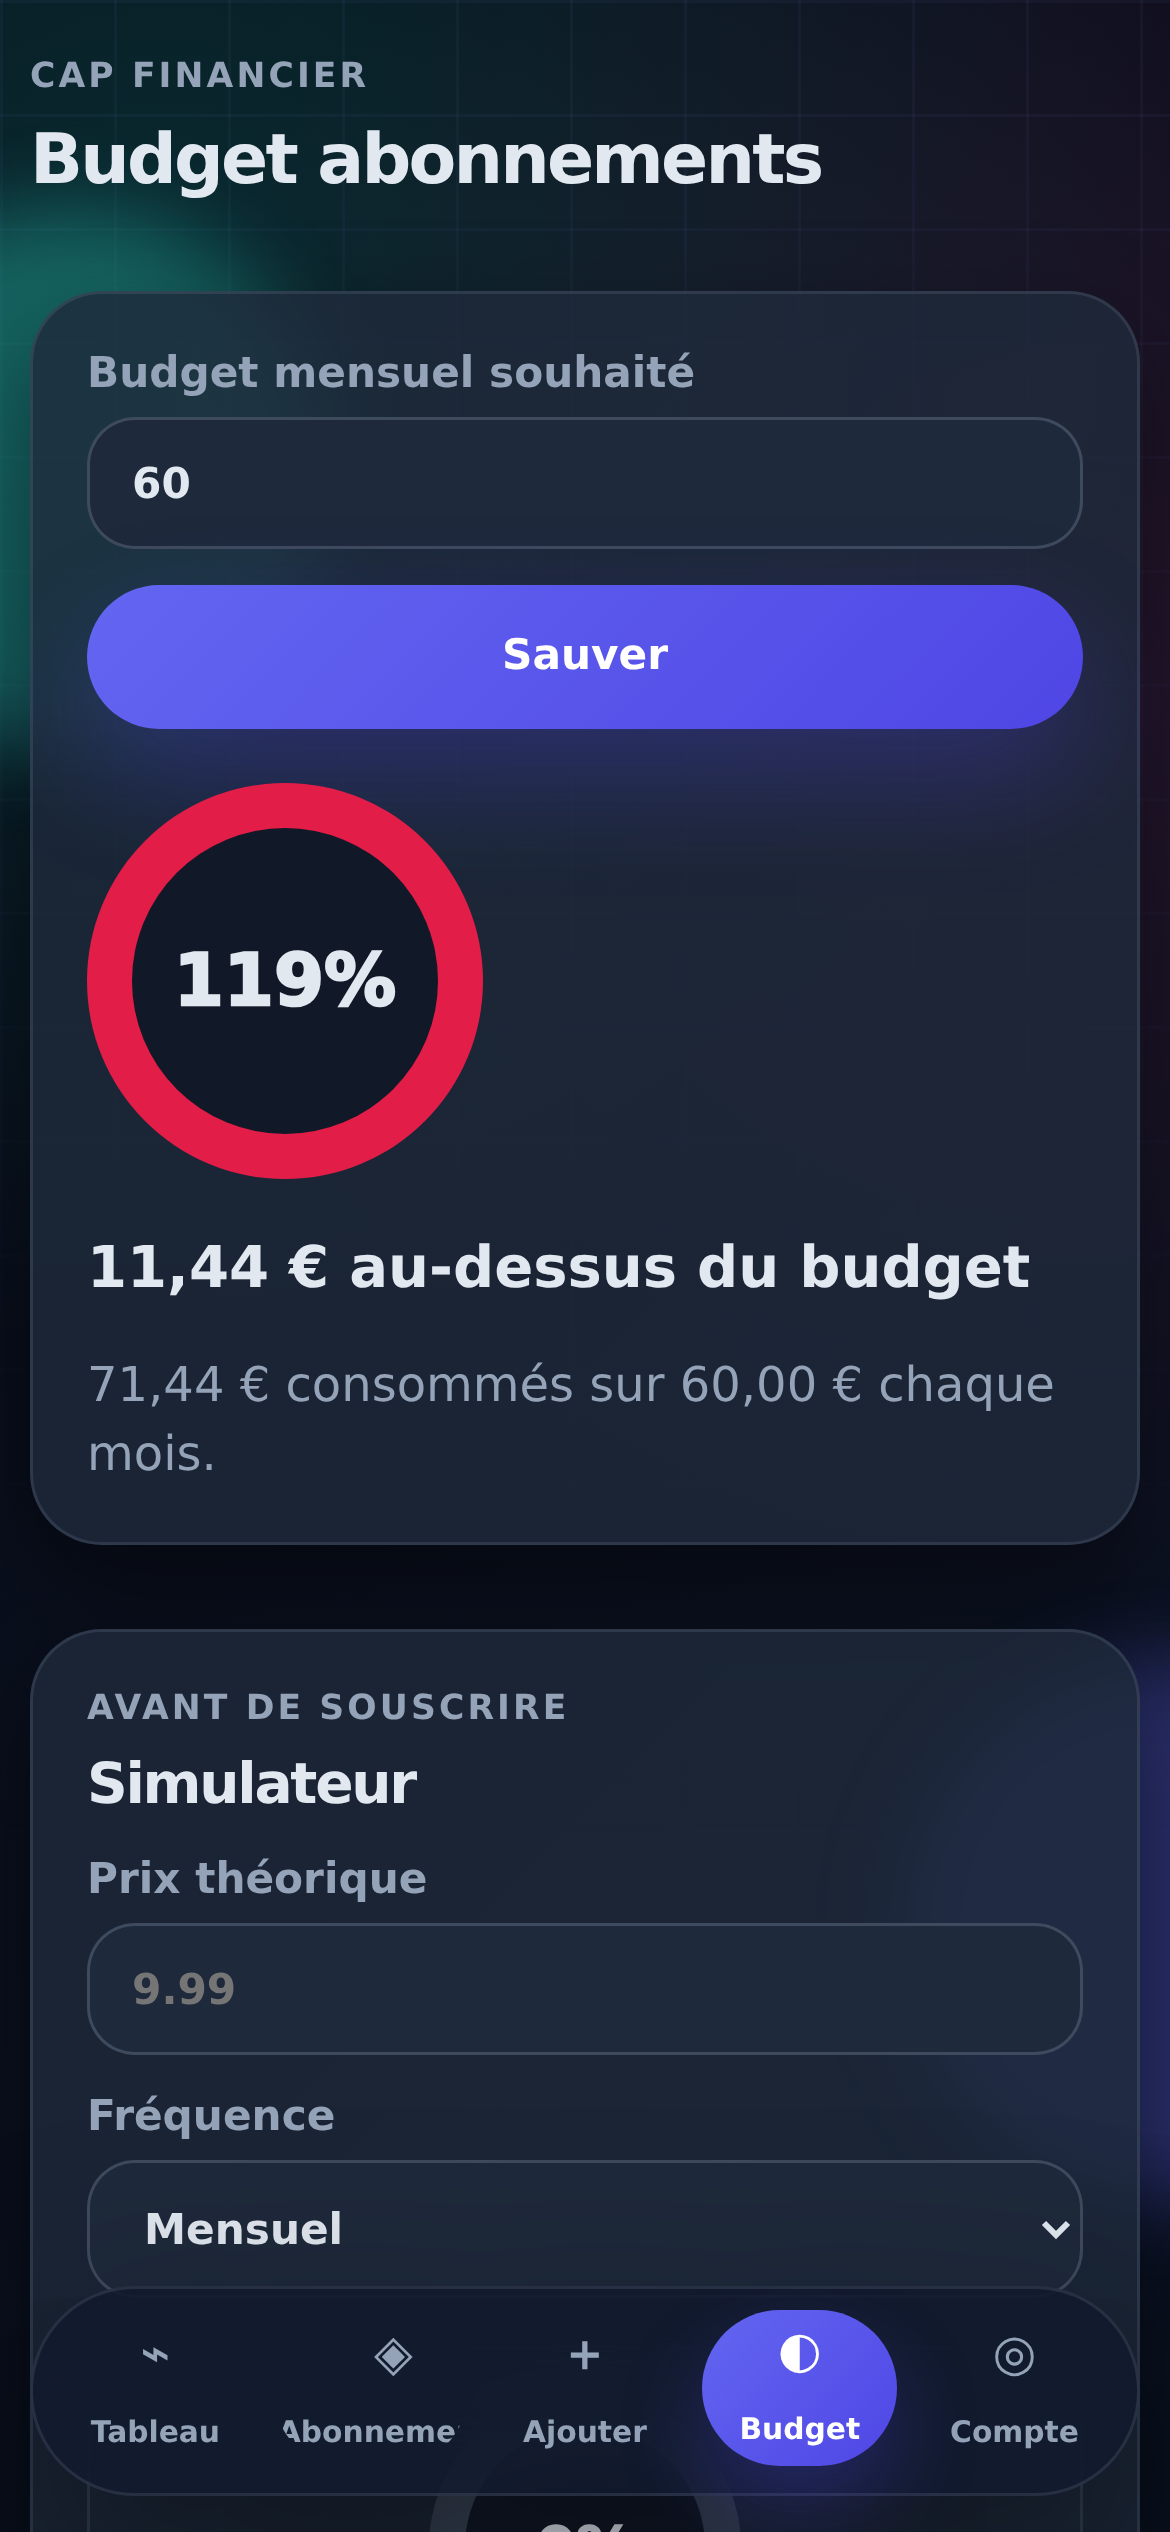
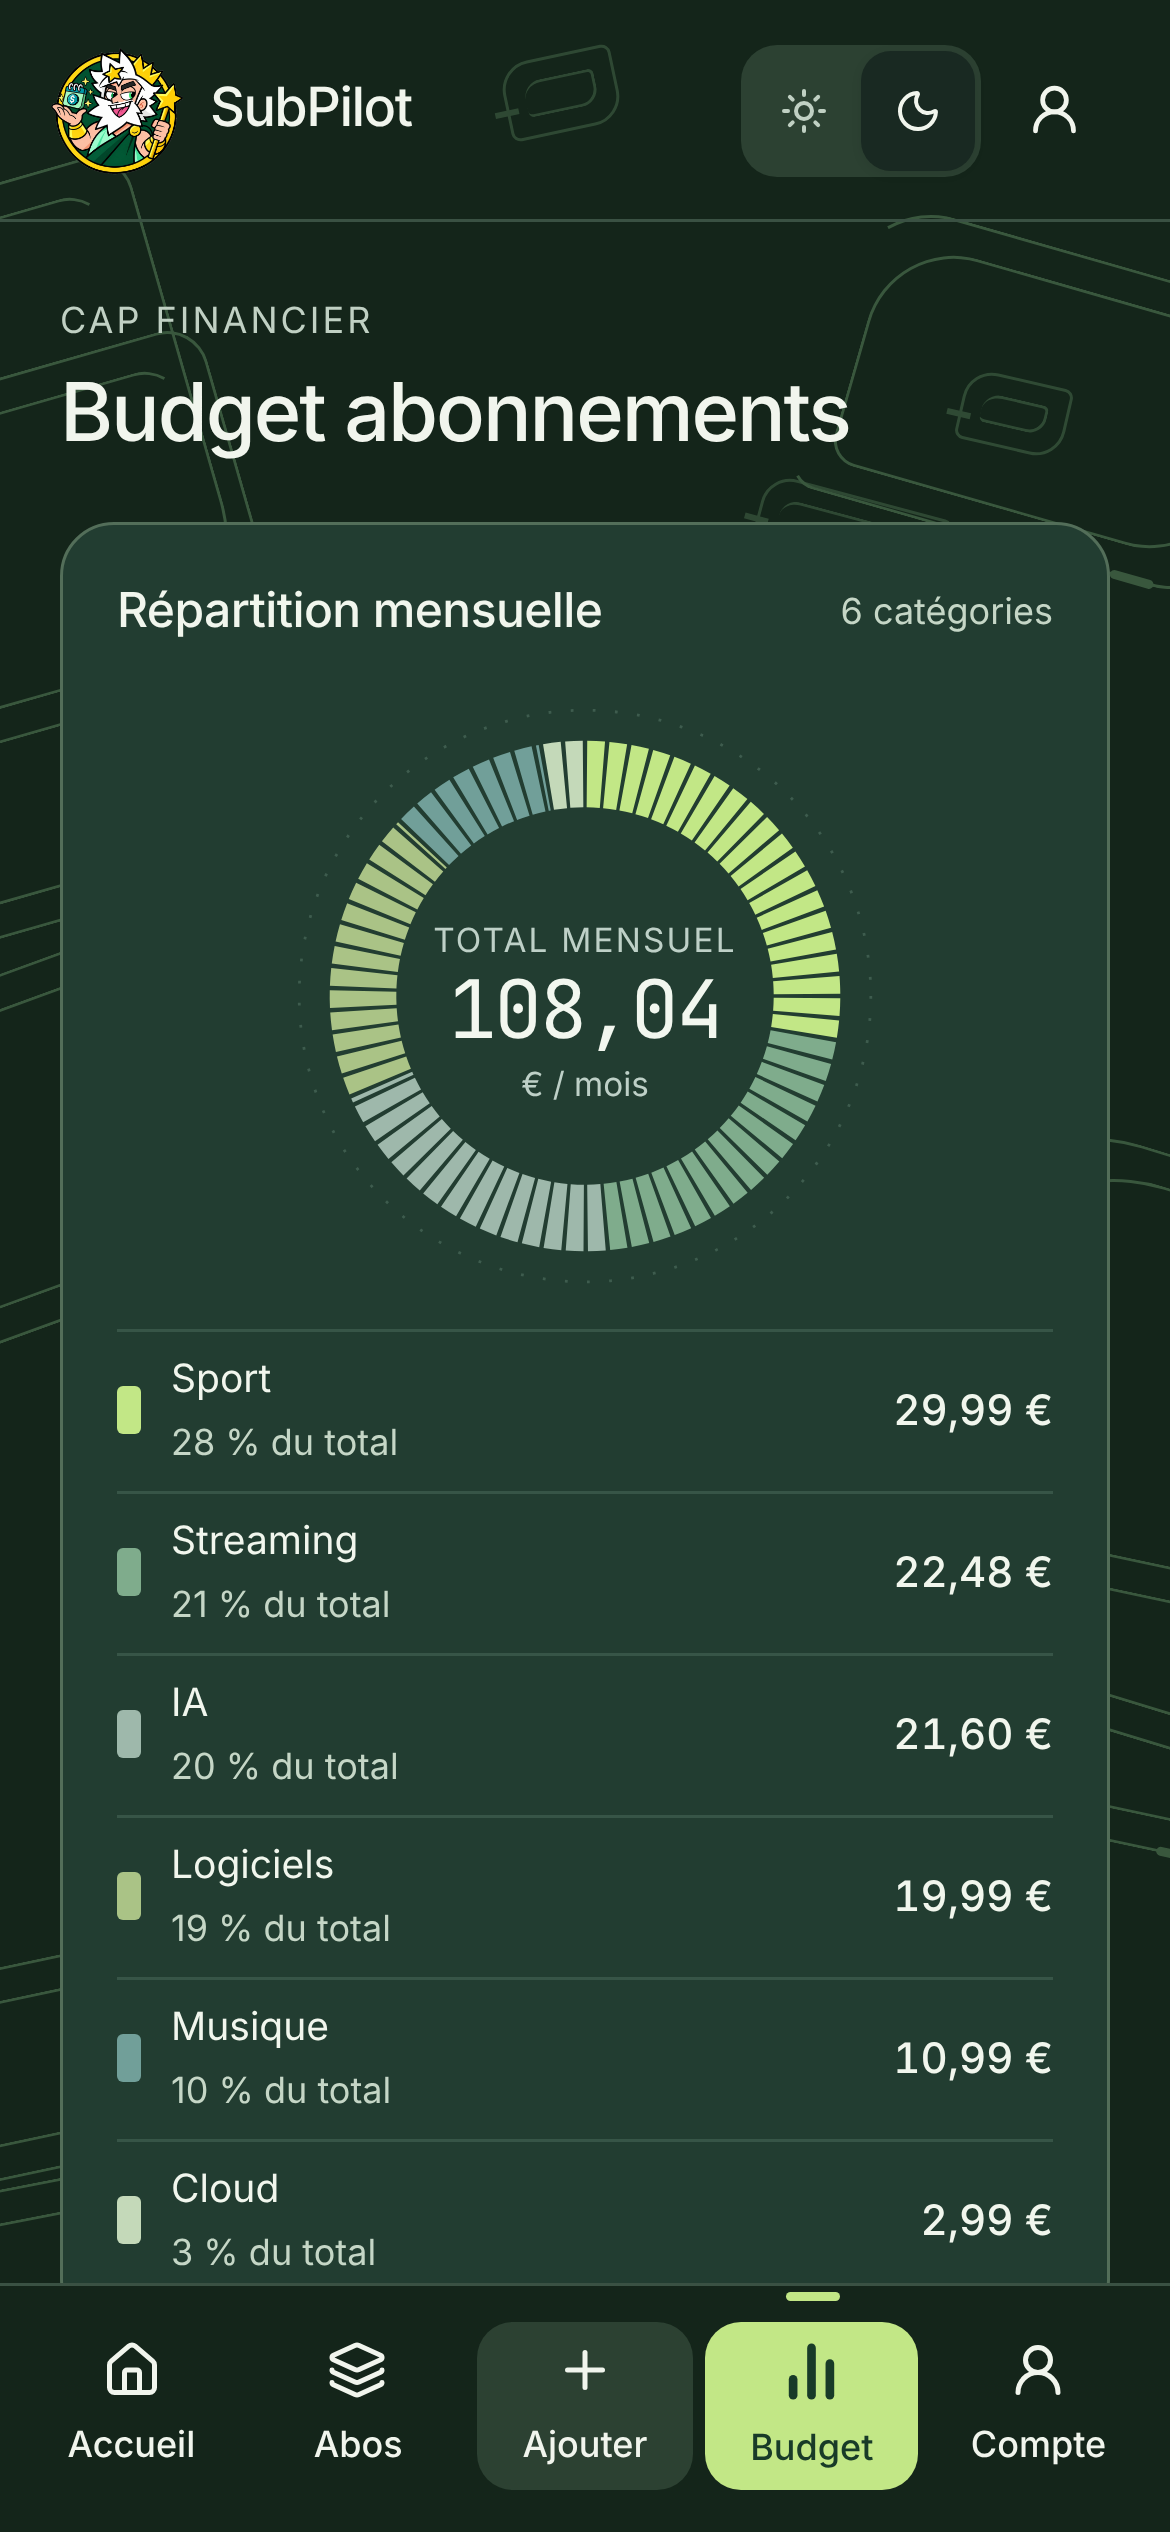
Visuels promo régénérés au design actuel (7 écrans, 3 formats)
Les anciennes captures montraient encore l'identité bleu indigo et seulement
5 écrans. Tout est repris depuis l'application réelle en v55 :

- promo/captures/ : 1170x2532, thèmes clair et sombre, 7 écrans
  (tableau de bord, abonnements, ajout avec détection e-mail, budget,
  rappels, mes données, mise en page ordinateur)
- promo/posts/    : 1080x1350 prêts à publier (fil 4:5)
- promo/stories/  : 1080x1920 prêts à publier (stories / reels)
- promo/mockups/  : supprimé, remplacé par posts/ et stories/

Chaque visuel composé porte le logo, une accroche, un sous-titre et la
mention « gratuit · iPhone · Android · Windows · Mac ».

Claude-Session: https://claude.ai/code/session_015dWXkBaYjftCErvXYTrW6U

diff --git a/promo/README.md b/promo/README.md
@@ -1,33 +1,43 @@
 # Visuels promotionnels SubPilot
 
-4 visuels au format portrait **1080 × 1920** (vectoriels, donc nets à toute taille) :
+Jeu complet de visuels au design actuel (palette vert profond / vert citron, v55).
+Tout est régénéré depuis l'application réelle : ce sont de vraies captures, pas des maquettes.
 
-| Fichier | Met en avant |
-|---|---|
-| `01-apercu.svg` | Vue d'ensemble : suivi des abonnements + total mensuel |
-| `02-import.svg` | Import intelligent : coller un e-mail → détection auto |
-| `03-rappels.svg` | Rappels automatiques avant chaque renouvellement |
-| `04-resiliation.svg` | Aide à la résiliation en 1 clic |
+## Les 7 écrans
 
-## Prévisualiser
-Ouvre `promo/index.html` dans un navigateur : les 4 visuels s'affichent côte à côte.
+| # | Écran | Ce qu'il montre |
+|---|---|---|
+| 01 | Tableau de bord | Total du mois, annuel estimé, prochain paiement, répartition |
+| 02 | Abonnements | La liste complète, les rappels automatiques, le bouton Résilier |
+| 03 | Ajouter | L'e-mail collé, détecté, et le formulaire pré-rempli |
+| 04 | Budget | Jauge de dépassement, répartition par catégorie, simulateur |
+| 05 | Rappels | Les notifications avant chaque prélèvement |
+| 06 | Mes données | Hébergement en France, contact, suppression du compte |
+| 07 | Ordinateur | La mise en page bureau, pour montrer le multi-appareil |
 
-## Exporter en PNG (pour ton annonce / les réseaux)
-- **Le plus simple** : ouvre un `.svg` directement dans Chrome → il s'affiche en plein écran, net → capture d'écran.
-- **Ou** : convertisseur en ligne « SVG to PNG » (cloudconvert, svgtopng.com…).
-- Les SVG sont vectoriels : aucune perte de qualité, quelle que soit la taille.
+Chaque écran existe en **thème clair** et **thème sombre**.
 
-## Texte d'annonce suggéré (à adapter)
+## Les 3 formats
 
-> 🚀 **Je lance SubPilot — l'app qui reprend le contrôle de vos abonnements.**
->
-> Marre de payer des abonnements oubliés ? SubPilot vous aide à :
-> 📥 **Ajouter un abonnement en un copier-coller** (collez un e-mail, il détecte tout)
-> 🔔 **Recevoir un rappel avant chaque renouvellement** (même app fermée)
-> ✂ **Résilier en 1 clic** — il vous emmène droit à la bonne page
-> 📊 **Visualiser vos dépenses** et garder un budget sous contrôle
->
-> 100 % gratuit pour tester, sur iPhone, Android et ordinateur.
-> 👉 [ton lien]
->
-> Je cherche des retours honnêtes 🙏 — dites-moi ce que vous en pensez !
+| Dossier | Format | Usage |
+|---|---|---|
+| `captures/` | 1170 × 2532 (PNG) | Captures brutes, sans décor — à réutiliser librement |
+| `posts/` | 1080 × 1350 (JPEG) | Publication dans le fil, format 4:5 |
+| `stories/` | 1080 × 1920 (JPEG) | Stories et Reels |
+
+Les visuels `posts/` et `stories/` sont prêts à publier : logo, accroche, sous-titre,
+mockup de l'appareil et mention « gratuit · iPhone · Android · Windows · Mac ».
+
+## Régénérer après un changement de design
+
+Le script de capture vit dans le dossier de travail de la session Claude Code
+(`promo/shoot.js` + `promo/compose.html`). Il lance l'application en local, prend
+les captures dans les deux thèmes, puis compose les visuels. Demande simplement
+une régénération : les écrans, les accroches et les formats sont décrits en haut
+du script.
+
+## À noter
+
+Les fichiers `01-apercu.svg` à `04-resiliation.svg`, `index.html` et `video.html`
+datent de la première identité (bleu indigo) et ne correspondent plus au design
+actuel. À refaire ou à supprimer.
